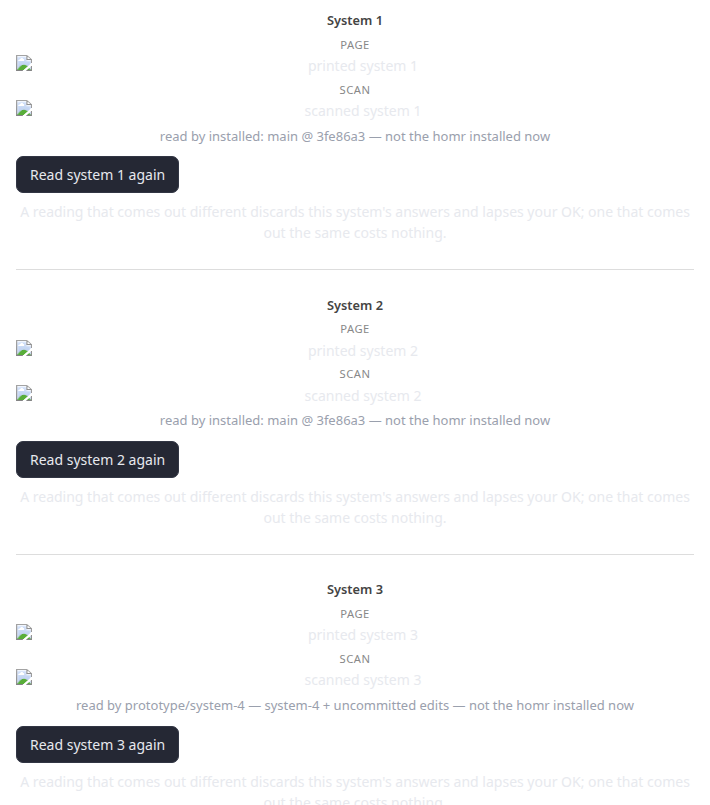
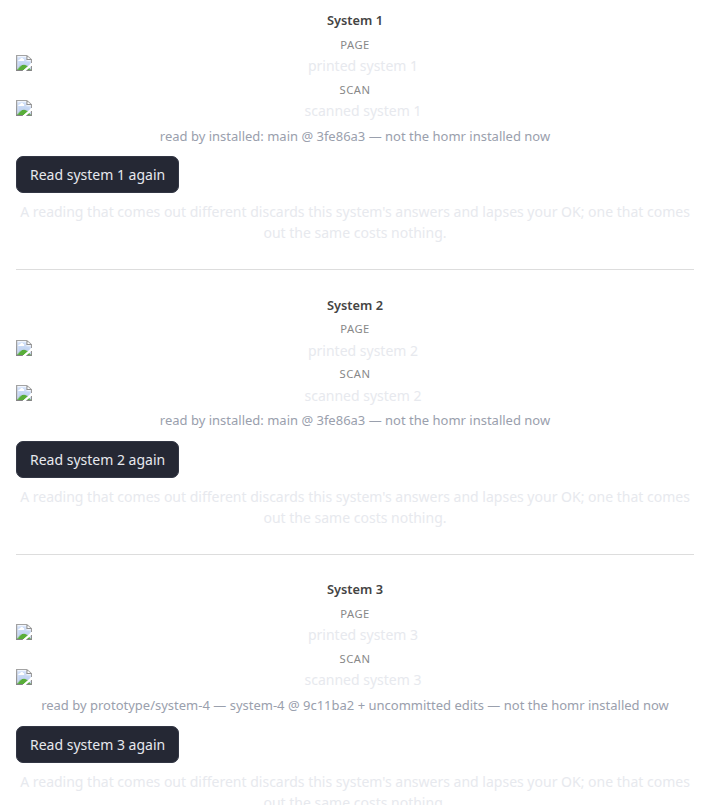
Show the commit a fragment was read at, not only the label
A working copy's label does not move when its commit does — 'main —
system-4' is the same words forty commits later — so grouping the Read by
section by the displayed name put two readings of one worktree under a
single heading with nothing to tell them apart. That is the ambiguity
#154 exists to remove, in the one place a person actually reads it.

The name now carries the short commit unless the label already does, and
the systems are grouped by the identity that was recorded (engine, commit,
dirty) rather than by what is printed. Regression test: two systems, same
engine and label, different commits, two groups.

Changed region(s): [[0.062, 0.8696, 0.9296, 0.9006]]

diff --git a/src/song_app/static/app.js b/src/song_app/static/app.js
@@ -455,9 +455,28 @@ async function compareView(view, slug) {
 // re-reads a system is a person pressing one of the buttons that were already
 // here. The label is what a person recognises and the commit is what actually
 // decides, because `main` in a working copy means a different commit next week.
+// The commit is shown and not only kept, because a working copy's label is
+// stable across commits — `main — system-4` is the same words a week and forty
+// commits later. Showing the label alone would put two readings of the same
+// worktree under one heading with nothing to tell them apart, which is the
+// ambiguity this exists to remove.
+function homrShort(rec) {
+  return rec && rec.commit ? rec.commit.slice(0, 7) : "";
+}
+
 function homrName(rec) {
   if (!rec || (!rec.label && !rec.commit)) return "unknown";
-  return (rec.label || rec.commit.slice(0, 7)) + (rec.dirty ? " + uncommitted edits" : "");
+  const short = homrShort(rec);
+  const label = rec.label || short;
+  return (label.includes(short) ? label : `${label} @ ${short}`)
+    + (rec.dirty ? " + uncommitted edits" : "");
+}
+
+// What actually identifies a reading, which is what the systems are grouped by.
+// Two commits of one worktree are two engines however alike they read.
+function homrKey(rec) {
+  if (!rec || (!rec.label && !rec.commit)) return "unknown";
+  return `${rec.engine || ""}|${rec.commit || ""}|${rec.dirty ? "dirty" : ""}`;
 }
 
 // null, not false, when either side cannot say — "nobody knows" is its own
@@ -470,11 +489,11 @@ function homrIsCurrent(rec, now) {
 function homrGroups(st) {
   const by = new Map();
   for (const [i, rec] of Object.entries(st.homr || {})) {
-    const name = homrName(rec);
-    if (!by.has(name)) by.set(name, []);
-    by.get(name).push(Number(i));
+    const key = homrKey(rec);
+    if (!by.has(key)) by.set(key, { name: homrName(rec), ids: [] });
+    by.get(key).ids.push(Number(i));
   }
-  return [...by.entries()].map(([name, ids]) => [name, ids.sort((a, b) => a - b)]);
+  return [...by.values()].map(({ name, ids }) => [name, ids.sort((a, b) => a - b)]);
 }
 
 function homrDrift(st) {

diff --git a/src/song_app/tests/test_scan_panel_ui.py b/src/song_app/tests/test_scan_panel_ui.py
@@ -377,3 +377,26 @@ def test_an_ok_given_under_an_older_homr_is_not_taken_away(live, page, monkeypat
         "button", name="This reading is right — continue to Clean").count() == 0
     assert state.load(song.slug).stage == "clean", "nobody was sent back to Scan"
     assert not errors, f"the panel raised: {errors}"
+
+
+def test_two_commits_of_one_worktree_are_two_readings(live, page, monkeypatch):
+    """A working copy's label does not move when its commit does.
+
+    `main — system-4` is the same words a week and forty commits later, so
+    grouping by the label would put two readings under one heading with nothing
+    to tell them apart -- which is the ambiguity #154 exists to remove. The
+    commit is the record, so the commit is shown.
+    """
+    base, song = live
+    fresh = _read(state.load(song.slug), 2, homr=None)
+    tree = {"engine": "system-4", "label": "main — system-4", "dirty": False}
+    fresh.data["scan"]["systems"]["1"]["homr"] = dict(tree, commit="1" * 40)
+    fresh.data["scan"]["systems"]["2"]["homr"] = dict(tree, commit="2" * 40)
+    fresh.save()
+    monkeypatch.setattr(server.omr, "default_engine", lambda: NEW_HOMR)
+    errors = _open(page, base, song.slug)
+
+    assert page.get_by_text("main — system-4 @ 1111111 — system(s) 1").is_visible()
+    assert page.get_by_text("main — system-4 @ 2222222 — system(s) 2").is_visible()
+    assert page.locator(".scanby p.hint").count() == 3, "two readings and the one installed"
+    assert not errors, f"the panel raised: {errors}"
